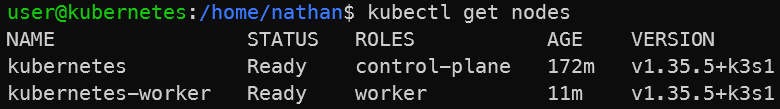
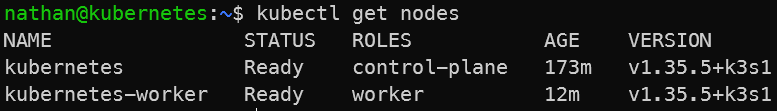
fix: wrong image ref

diff --git a/course/02-mise-en-pratique/09-lab-6-scheduling-avance-taints-tolerations-et-affinites/02-pre-requis.md b/course/02-mise-en-pratique/09-lab-6-scheduling-avance-taints-tolerations-et-affinites/02-pre-requis.md
@@ -38,9 +38,9 @@ curl -sfL https://get.k3s.io | K3S_URL=https://<IP_DU_SERVEUR>:6443 K3S_TOKEN=<T
 
 <details>
 
-<summary>**Résultat**</summary>
+<summary><strong>Résultat</strong></summary>
 
-![E0 (1)](../../../screenshots/lab-06/E0-1.png)
+![E0](../../../screenshots/lab-06/E0.png)
 
 **Interprétation :**
 
